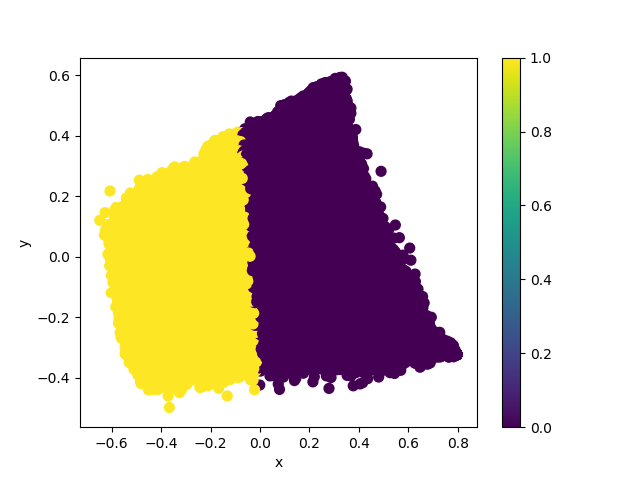
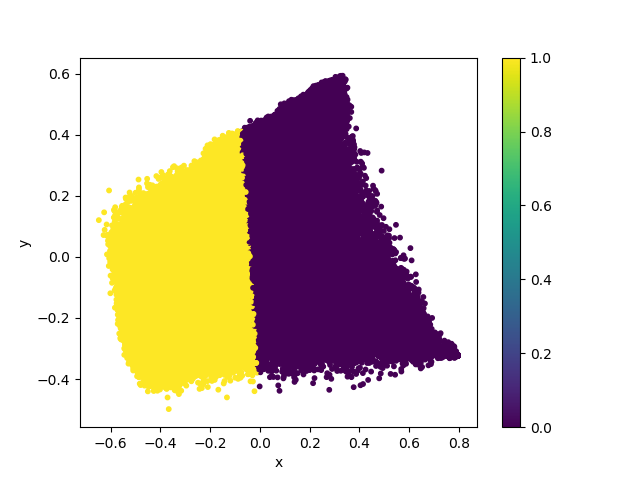
visualization

diff --git a/lab5/clustering.py b/lab5/clustering.py
@@ -20,7 +20,7 @@ def load_image(dir):
 def save_image(dir, image):
     io.imsave(dir, image)
 
-def visualize_image(image):
+def visualize_image(image, image_name):
     image_shape = image.shape
     image_as_points = image.reshape(image_shape[0] * image_shape[1], 3)
 
@@ -29,8 +29,12 @@ def visualize_image(image):
 
     image_as_points_reduced = pca.transform(image_as_points)
     print(image_as_points_reduced[:,1:2].shape)
-    plt.plot(image_as_points_reduced[:, 0:1], image_as_points_reduced[:, 1:2], 'ro')
-    plt.savefig('viz.png')
+    x = image_as_points_reduced[:, 0:1].flatten()
+    y = image_as_points_reduced[:, 1:2].flatten()
+    print(x)
+    print(y)
+    plt.scatter(x, y, s=10, c='r', marker='o')
+    plt.savefig('out/viz_{}'.format(image_name))
 
 def plot_cluster(X, centers, labels, k, image_name):
     fig = plt.figure()
@@ -40,7 +44,7 @@ def plot_cluster(X, centers, labels, k, image_name):
     x = X_r[:,0:1].flatten()
     y = X_r[:, 1:2].flatten()
     
-    scatter = ax.scatter(x, y, c=labels, s=50)
+    scatter = ax.scatter(x, y, c=labels, s=10)
     ax.set_xlabel('x')
     ax.set_ylabel('y')
     plt.colorbar(scatter)
@@ -56,10 +60,10 @@ def clustering(image, num_clusters, image_name):
     new_image = centers[predict]
     new_image = new_image.reshape(image_shape)
 
-    sihlhouette = silhouette_score(image_as_points, predict)
-    print("clustering with {} clusters and silhouette {}".format(k, sihlhouette))
+    #sihlhouette = silhouette_score(image_as_points, predict)
+    #print("clustering with {} clusters and silhouette {}".format(k, sihlhouette))
     
-    #plot_cluster(image_as_points, centers, predict, k, image_name)
+    plot_cluster(image_as_points, centers, predict, k, image_name)
     return new_image
 
 
@@ -68,9 +72,9 @@ image_name = image_dir.split('/')[-1]
 
 image = load_image(image_dir)
 
-visualize_image(image)
+visualize_image(image, image_name)
 
-for k in [2, 8, 16, 32, 64, 128]:
+for k in [2]:
     new_image = clustering(image, k, image_name)
     save_image('out/{}_{}.png'.format(image_name.split(".")[0], k), new_image)
 
